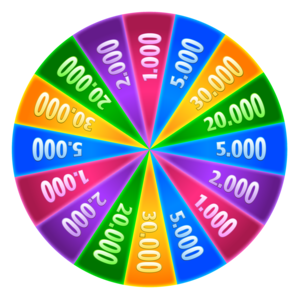
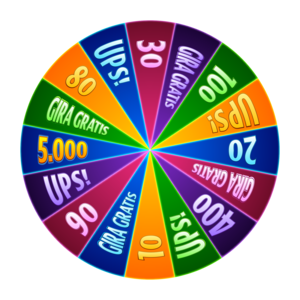
Actualizacion de imagenes

diff --git a/index.html b/index.html
@@ -36,12 +36,13 @@
         <style>
             body {
                   /* The image used */
-                  background-image:url('https://i.ibb.co/vsStt90/BG-ruleta.png');
+                  background-image:url('https://i.ibb.co/VB7R0BX/BG-ruleta-1.png');
                   background-size: cover;
                   background-repeat:no-repeat;
 
  
                 }
+
         </style>
     </head>
     <body onClick="startSpin();">
@@ -49,13 +50,13 @@
             <div class="row">
                 <!-- 1era Ruleta-->
                 <div class="col-sm-6 the_wheel" style="" align="center" valign="center" id="">
-                    <canvas id="canvas" width="315" height="418" style="position: relative;">
+                    <canvas id="canvas" width="315" height="418" style="position: static; z-index: -1;">
                         
                     </canvas>
                 </div>
                 <!-- 2da Ruleta-->
-                <div class="col-sm-6 la_rueda" style=" " align="center" valign="center" id="">
-                    <canvas id="" width="315" height="418" style="">
+                <div class="col-sm-6 la_rueda" style="" align="center" valign="center" id="">
+                    <canvas id="" width="315" height="418" style="position: relative; z-index: 0; left: 300px;">
                         
                     </canvas>
                 </div>

diff --git a/js/Winwheel.js b/js/Winwheel.js
@@ -56,7 +56,7 @@ function Winwheel(options, drawWheel)
         'clearTheCanvas'    : true,         // When set to true the canvas will be cleared before the wheel is drawn.
         'imageOverlay'      : false,        // If set to true in image drawing mode the outline of the segments will be displayed over the image. Does nothing in code drawMode.
         'drawText'          : true,         // By default the text of the segments is rendered in code drawMode and not in image drawMode.
-        'pointerAngle'      : 90,            // Location of the pointer that indicates the prize when wheel has stopped. Default is 0 so the (corrected) 12 o'clock position.
+        'pointerAngle'      : 270,            // Location of the pointer that indicates the prize when wheel has stopped. Default is 0 so the (corrected) 12 o'clock position.
         'wheelImage'        : null,         // Must be set to image data in order to use image to draw the wheel - drawMode must also be 'image'.
         'imageDirection'    : 'N',          // Used when drawMode is segmentImage. Default is north, can also be (E)ast, (S)outh, (W)est.
         'responsive'        : false,        // If set to true the wheel will resize when the window first loads and also onResize.

diff --git a/js/Winwheel2.js b/js/Winwheel2.js
@@ -56,7 +56,7 @@ function Ruleta(options, drawWheel)
         'clearTheCanvas'    : true,         // When set to true the canvas will be cleared before the wheel is drawn.
         'imageOverlay'      : false,        // If set to true in image drawing mode the outline of the segments will be displayed over the image. Does nothing in code drawMode.
         'drawText'          : true,         // By default the text of the segments is rendered in code drawMode and not in image drawMode.
-        'pointerAngle'      : 90,            // Location of the pointer that indicates the prize when wheel has stopped. Default is 0 so the (corrected) 12 o'clock position.
+        'pointerAngle'      : 270,            // Location of the pointer that indicates the prize when wheel has stopped. Default is 0 so the (corrected) 12 o'clock position.
         'wheelImage'        : null,         // Must be set to image data in order to use image to draw the wheel - drawMode must also be 'image'.
         'imageDirection'    : 'N',          // Used when drawMode is segmentImage. Default is north, can also be (E)ast, (S)outh, (W)est.
         'responsive'        : false,        // If set to true the wheel will resize when the window first loads and also onResize.

diff --git a/css/main.css b/css/main.css
@@ -19,14 +19,16 @@ body
 /* Sets the background image for the wheel */
 div.the_wheel
 {
-    background-image: url(../img/wheel_back.png);
+    background-image: url(../img/Marcoruleta.png);
     background-position: center;
     background-repeat: no-repeat;
+    position: relative;
+    z-index: 1;
 }
 
 div.la_rueda
 {
-    background-image: url(../img/wheel_back.png);
+    background-image: url(../img/marco2.png);
     background-position: center;
     background-repeat: no-repeat;
 }
